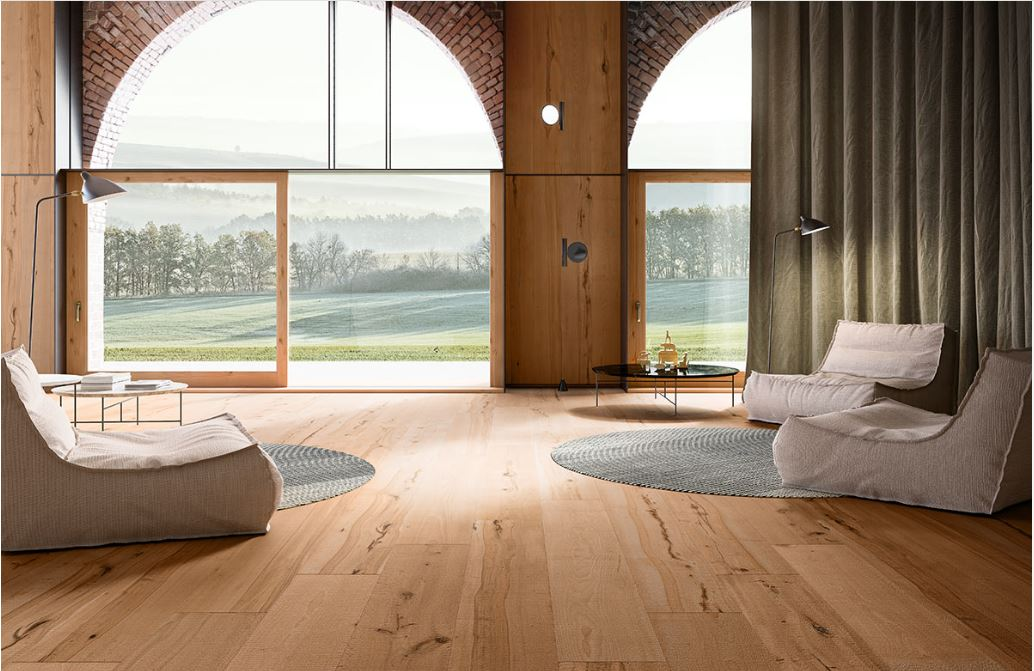
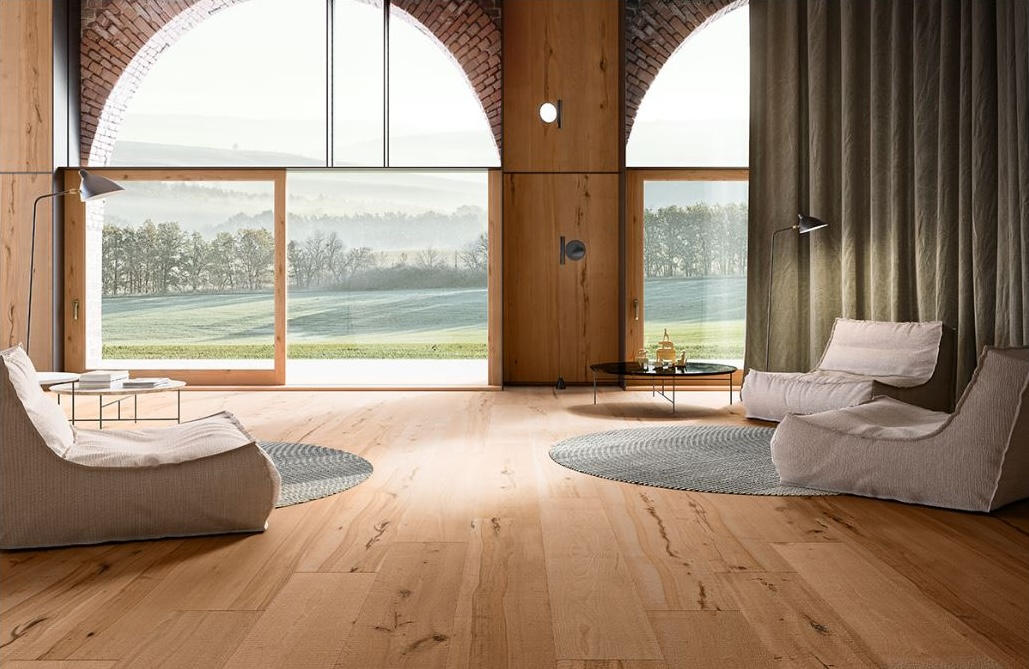
resize

diff --git a/style.css b/style.css
@@ -82,7 +82,7 @@ body {
     display: inline-block; 
     position: relative;
     width: 100%;
-    height: 100vh;
+    height: 1000px;
     object-fit: cover;
     z-index: -1;
 }
@@ -91,7 +91,7 @@ body {
     display: inline-block; 
     position: relative;
     width: 100%;
-    max-height: 500px;
+    max-height: 1000px;
     object-fit: cover;
     z-index: -1;
 }
@@ -597,6 +597,12 @@ span {
     .dropdown:hover .dropdown-content {
     display: block;
     }
+    .logo-arka {
+        height: 450px;
+    }
+    .logo-kapak-icerik {
+        height: 450px;
+    }
 }
 
 
@@ -666,5 +672,11 @@ span {
     }
     .arayın-button {
         font-size: 10px;
+    }
+    .logo-arka {
+        height: 200px;
+    }
+    .logo-kapak-icerik {
+        height: 200px;
     }
 }

diff --git a/index.html b/index.html
@@ -92,7 +92,7 @@
           <div class="iletisim">
               <h1 class="showroom-header">Showroom</h1>
               <p class="showroom-p">Projeleriniz için bize ulaşabilirsiniz.</p>
-              <div class="showroom-bizi-arayın text-decoration">
+              <div class="showroom-bizi-arayın">
                   <a href="./contact.html"><button class="arayın-button">BİZİ ARAYIN</button></a>
               </div>     
           </div>
